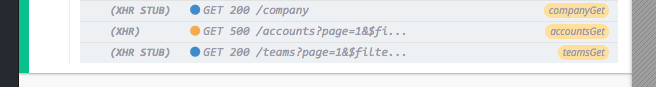
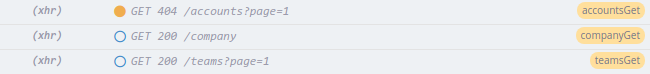
docs(commands): edit command log section for route, intercept

diff --git a/content/api/commands/intercept.md b/content/api/commands/intercept.md
@@ -1537,6 +1537,50 @@ are some workarounds:
   entirely. For more information, see
   [this comment on issue #14459](https://github.com/cypress-io/cypress/issues/14459#issuecomment-768616195)
 
+## Command Log
+
+```javascript
+cy.intercept('/accounts*').as('accountsGet')
+cy.intercept('/company', { companyId: 1 }).as('companyGet')
+cy.intercept('/teams*', [{ teamId: 2 }]).as('teamsGet')
+```
+
+Whenever you create `cy.intercept()` rules, Cypress will display a new
+Instrument Log called _Routes_. It will list the routing table in the Instrument
+Log, including the `method`, `RouteMatcher`, if the route is stubbed, any alias,
+and number of matched requests:
+
+<!--
+it('cy.intercept command log', () => {
+    cy.intercept('/accounts*').as('accountsGet')
+    cy.intercept('/company', { companyId: 1 }).as('companyGet')
+    cy.intercept('/teams*', [{ teamId: 2 }]).as('teamsGet')
+    cy.then(() => {
+        fetch('/accounts?page=1')
+        fetch('/company')
+        fetch('/teams?page=1')
+    })
+})
+-->
+
+<DocsImage src="/img/api/intercept/command-log-routes-ui.png" alt="Screenshot of Command Log Routes UI"></DocsImage>
+
+When HTTP requests are made, Cypress will log them in the Command Log and
+indicate whether they matched a `cy.intercept()` by the presence of a yellow
+badge on the right hand side:
+
+<DocsImage src="/img/api/intercept/command-log-fetches.png" alt="Screenshot of example fetches"></DocsImage>
+
+The circular indicator is filled if the request went to the destination server,
+but unfilled if the request was stubbed with a response.
+
+Clicking on a request that matched a `cy.intercept()` will print additional
+information about the request and response:
+
+<DocsImage src="/img/api/intercept/console-props.png" alt="Screenshot of cy.intercept console output"></DocsImage>
+
+[Read more about request logging in Cypress.](/guides/guides/network-requests#Command-Log)
+
 ## History
 
 | Version                                     | Changes                                                                                                                                                                                                                                                                                              |

diff --git a/content/api/commands/route.md b/content/api/commands/route.md
@@ -572,8 +572,30 @@ cy.route(/teams/, 'fixtures:teams').as('teamsGet')
 
 Whenever you start a server and add routes, Cypress will display a new
 Instrument Log called _Routes_. It will list the routing table in the Instrument
-Log, including the `method`, `url`, `stubbed`, `alias` and number of matched
-requests:
+Log, including the `method`, matched URL pattern, `stubbed`, `alias` and number
+of matched requests:
+
+<!--
+it('cy.route command log', () => {
+    cy.server()
+    cy.route(/accounts/).as('accountsGet')
+    cy.route(/company/, 'fixtures:company').as('companyGet')
+    cy.route(/teams/, 'fixtures:teams').as('teamsGet')
+    cy.window().then(({ XMLHttpRequest }) => {
+        const xhr = new XMLHttpRequest()
+        xhr.open('GET', '/accounts?page=1')
+        xhr.send()
+
+        const xhr2 = new XMLHttpRequest()
+        xhr2.open('GET', '/company')
+        xhr2.send()
+
+        const xhr3 = new XMLHttpRequest()
+        xhr3.open('GET', '/teams?page=1')
+        xhr3.send()
+    })
+})
+-->
 
 <DocsImage src="/img/api/route/routing-table-displayed-in-command-log-for-cy-route.png" alt="Command Log routing table" ></DocsImage>
 
@@ -582,10 +604,12 @@ whether they matched a routing alias:
 
 <DocsImage src="/img/api/route/some-xhr-responses-including-200-and-500-status-codes.png" alt="Command Log XHR alias route" ></DocsImage>
 
-When clicking on `XHR Stub` within the Command Log, the console outputs the
-following:
+The circular indicator is filled if the request went to the destination server,
+but unfilled if the request was stubbed with a response.
 
 <DocsImage src="/img/api/route/console-log-shows-status-duration-response-request-and-other-data-for-routing.png" alt="Console Log XHR alias route" ></DocsImage>
+
+[Read more about request logging in Cypress.](/guides/guides/network-requests#Command-Log)
 
 ## History
 
